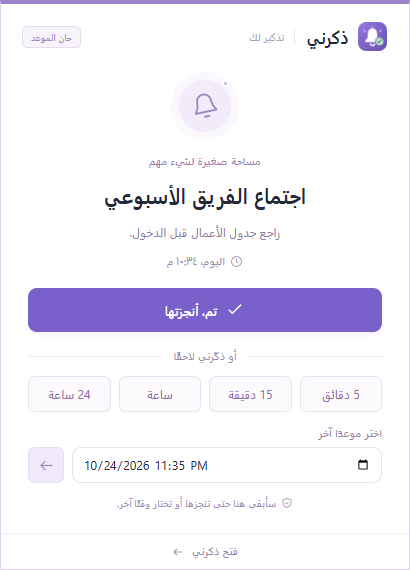
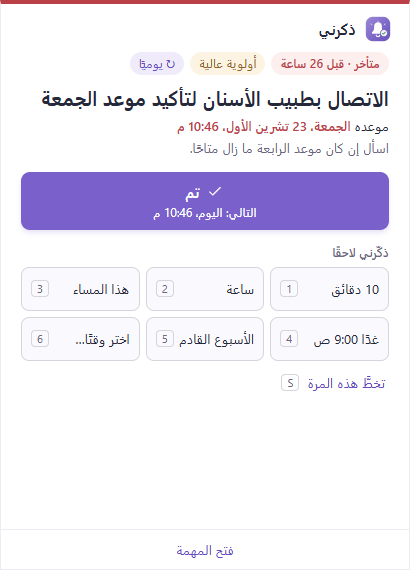
Describe the 12 languages and the new alert in the changelog and README
The changelog's TODO lines for both are filled in, with [#NN] for the PR number. The README's
snooze and reminder bullets and its alert screenshots show the redesigned alert.

diff --git a/CHANGELOG.md b/CHANGELOG.md
@@ -15,9 +15,9 @@ Everything since v1.4.0. Your tasks, notes, attachments and settings from v1.4.0
 - **Pause reminders** from the notification area. [#16]
 - **Dark mode.** [#7]
 - **Verified backups** with restore from Settings. [#5]
-- **TODO:** the interface in 12 languages.
-- **TODO:** the redesigned alert window.
-- **TODO:** color themes and note pickers.
+- **12 interface languages,** with English as the new default and a full right-to-left layout in Arabic. [#NN]
+- **A redesigned alert:** one reminder at a time with its status at a glance, smart snooze choices on the 1–6 keys, **Snooze all** and **Open task**. [#NN]
+- **Color themes:** six palettes in light and dark, plus note paper colors and styles. [#35]
 
 ### Added
 
@@ -44,8 +44,14 @@ Everything since v1.4.0. Your tasks, notes, attachments and settings from v1.4.0
 - A local log in the data folder's `logs` folder, to attach to a problem report. It never records task or note titles, text or file names. [#15]
 - The installer shows the privacy notice and the license, in English or Arabic, and the uninstaller says your data folder is kept. [#14]
 - Release installers come with `SHA256SUMS.txt` and GitHub build provenance, so you can check a download. [#3]
-- **TODO:** 12 interface languages.
-- **TODO:** the redesigned alert window.
+- The interface in 12 languages: English, العربية, Español, Français, Deutsch, Português (Brasil), Русский, 中文 (简体), 日本語, Türkçe, हिन्दी and Bahasa Indonesia, each listed in its own name. New installs start in English and existing installs keep Arabic. The tray menu, dialogs and error messages follow the chosen language, text missing in a language falls back to English, and the layout mirrors for right-to-left. The translations beyond English and Arabic are machine-assisted and were reviewed by native-level reviewers. [#NN]
+- The redesigned alert window [#NN]:
+  - chips for how long a reminder is overdue, its priority, its repeat and how many times it was snoozed, with the next occurrence under **Done** for repeating tasks;
+  - **Remind me again** with 10 min, 1 hour, This evening (until 17:00), Tomorrow 9 AM, Next week and **Pick a time…**, on the 1–6 keys; **S** skips a repeat;
+  - a *1 of N* counter with previous and next when several reminders wait, and **Snooze all** for an hour;
+  - **Open task** opens that task's editor in the main window;
+  - a gentle nudge after three snoozes of the same occurrence;
+  - screen-reader support (an alert dialog that announces each reminder) and keyboard use: Enter is Done, the arrows move through the queue, and Escape never dismisses it. Shortcuts act only after you interact with the alert, so typing in another window can't complete or snooze a reminder that just appeared.
 - **Settings → Appearance:** six color palettes (Lavender, Ocean, Forest, Sunset, Graphite and High contrast), each in light and dark, picked from preview cards and applied at once to the main window and the alert. [#35]
 - Notes come in ten paper colors, picked from swatches, and three styles: plain card, sticky note or lined paper. The editor shows a live preview. [#35]
 - The logo inside the app follows the chosen palette and light or dark mode (issue #18). [#35]

diff --git a/README.md b/README.md
@@ -17,13 +17,13 @@ Remember Me is an open-source desktop app for 64-bit Windows. It runs without an
 
 <p align="center">
   <img src="docs/screenshots/main-en.png" width="68%" alt="Remember Me main window: today's tasks and the next reminder">
-  <img src="docs/screenshots/alert-en.png" width="23%" alt="Sticky reminder above the taskbar with Done and Snooze">
+  <img src="docs/screenshots/alert-en.png" width="23%" alt="Sticky reminder above the taskbar: an overdue task with Done, snooze choices and a queue of two">
 </p>
 
 ## Features
 
-- **Sticky reminders:** a persistent alert above the taskbar, shown on top of other windows until you choose **Done** or snooze it.
-- **Flexible snooze:** 5 minutes, 15 minutes, 1 hour, 24 hours, or any date and time you pick. Snoozes survive restarts.
+- **Sticky reminders:** a persistent alert above the taskbar, shown on top of other windows until you choose **Done** or snooze it. It shows how overdue a reminder is, its priority and repeat, and the next occurrence; when several are waiting it shows them one at a time with a *1 of N* counter, and **Open task** opens the task itself.
+- **Smart snooze:** 10 minutes, 1 hour, this evening, tomorrow at 9 AM, next week, or any date and time you pick, on the 1–6 keys, plus **Snooze all** when several reminders are waiting. Snoozes survive restarts.
 - **Recurring tasks:** daily, weekly, monthly, yearly, on chosen weekdays (for example workdays), or every few days. Completing one logs it under *Completed* and schedules the next occurrence at the same wall-clock time, including across daylight-saving changes. Monthly repeats on the 31st and yearly repeats on February 29 fall back to the last day of the month without drifting.
 - **Skip this time and Only this time:** skip one occurrence of a repeating task without marking it done, or move just one occurrence and keep the rest of the series.
 - **Early notice:** an optional Windows notification from 5 minutes to 1 day before a reminder is due.
